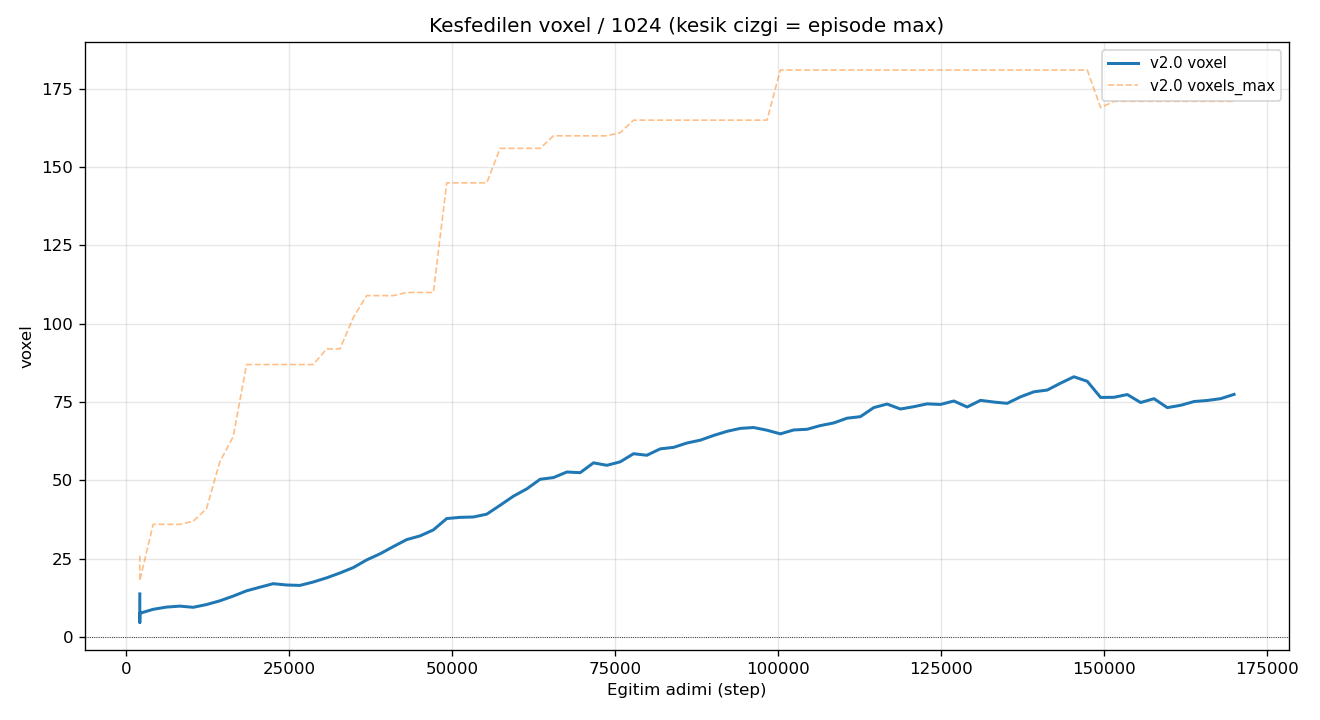
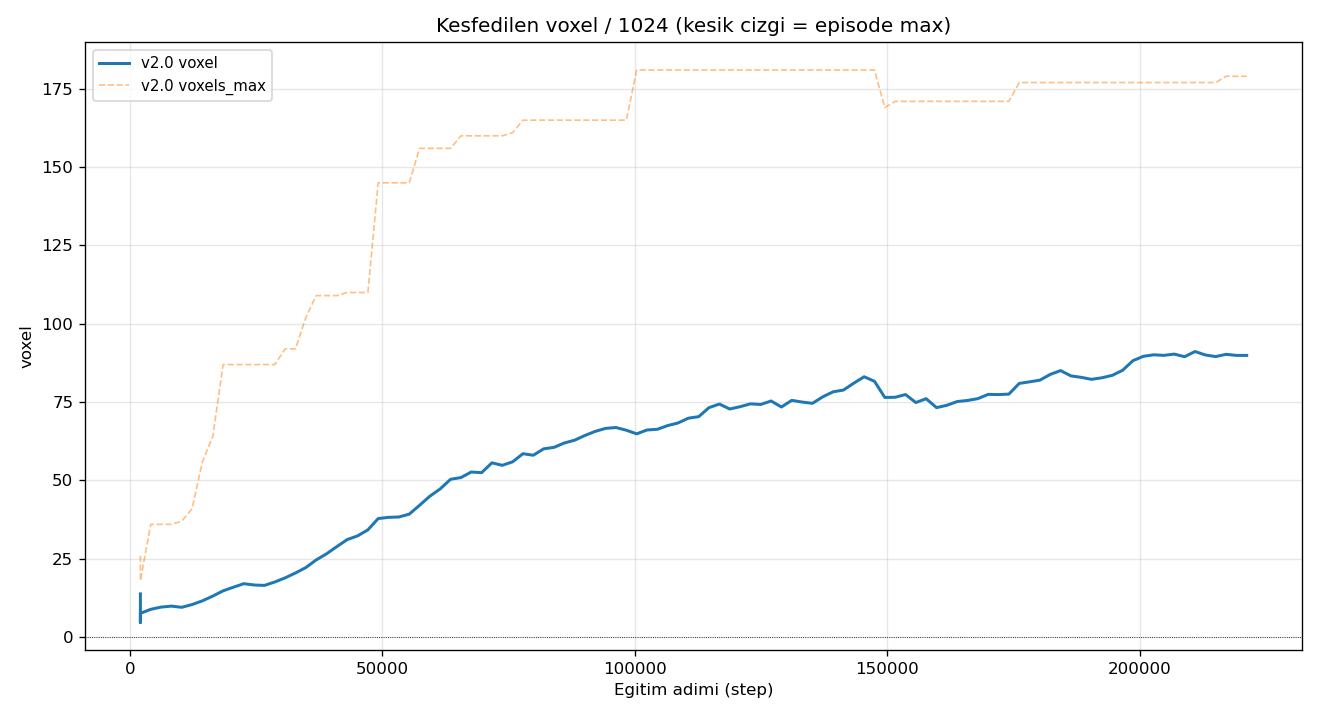
auto(operator): refresh report @221k (healthy, reward~99, peak 101.3)

diff --git a/docs/REPORT.md b/docs/REPORT.md
@@ -6,7 +6,7 @@ Otomatik uretildi (`scripts/report.py`). Operator agent gunceller.
 
 | Versiyon | Son step | Son reward | Peak reward | Peak voxel (max) | Peak oda (max) |
 |---|---|---|---|---|---|
-| v2.0 | 169,984 | +85.1 | +91.5 | 181/1024 | 6/6 |
+| v2.0 | 221,184 | +99.3 | +101.4 | 181/1024 | 6/6 |
 
 ## Versiyon / Mudahale Gunlugu
 
